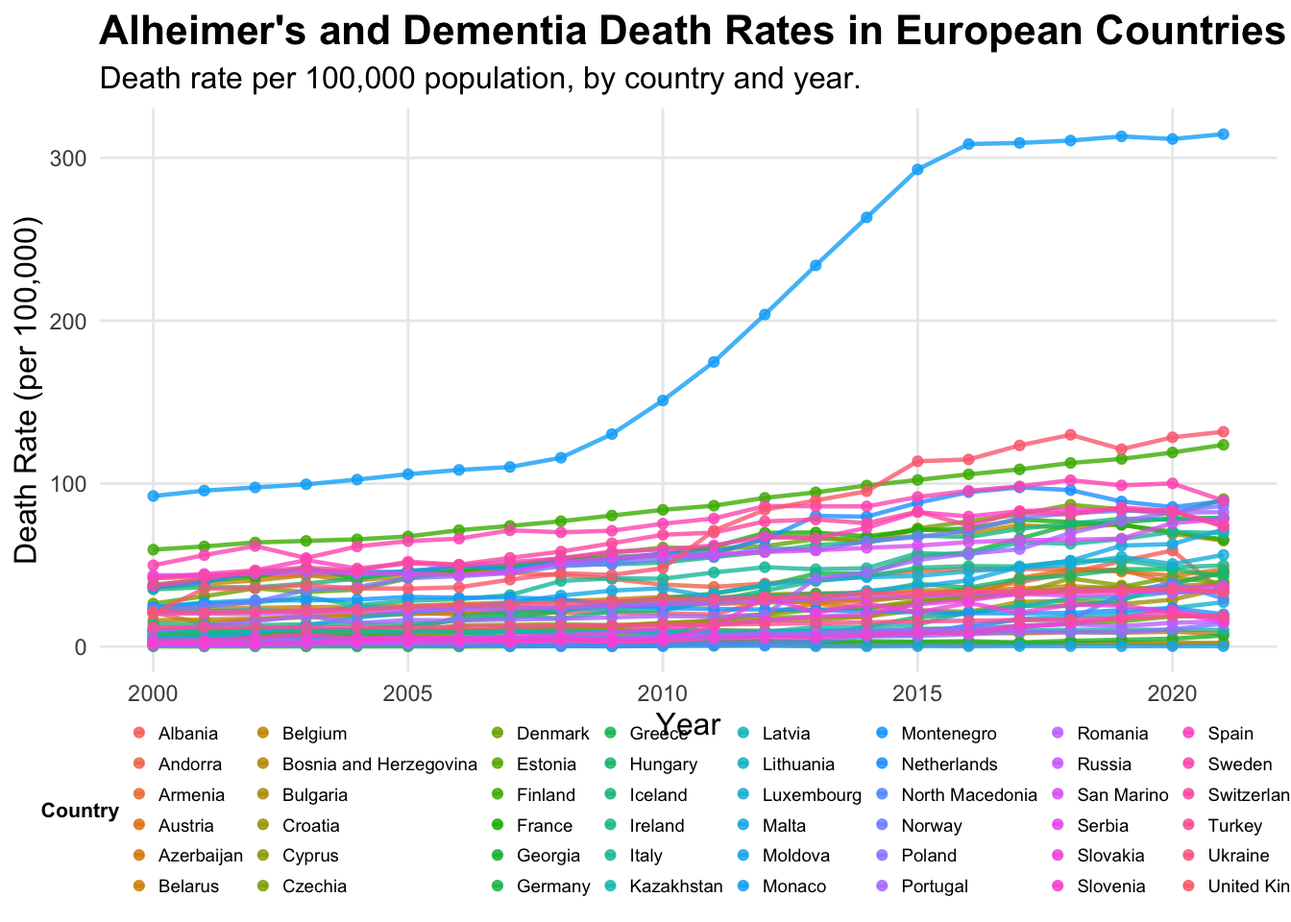
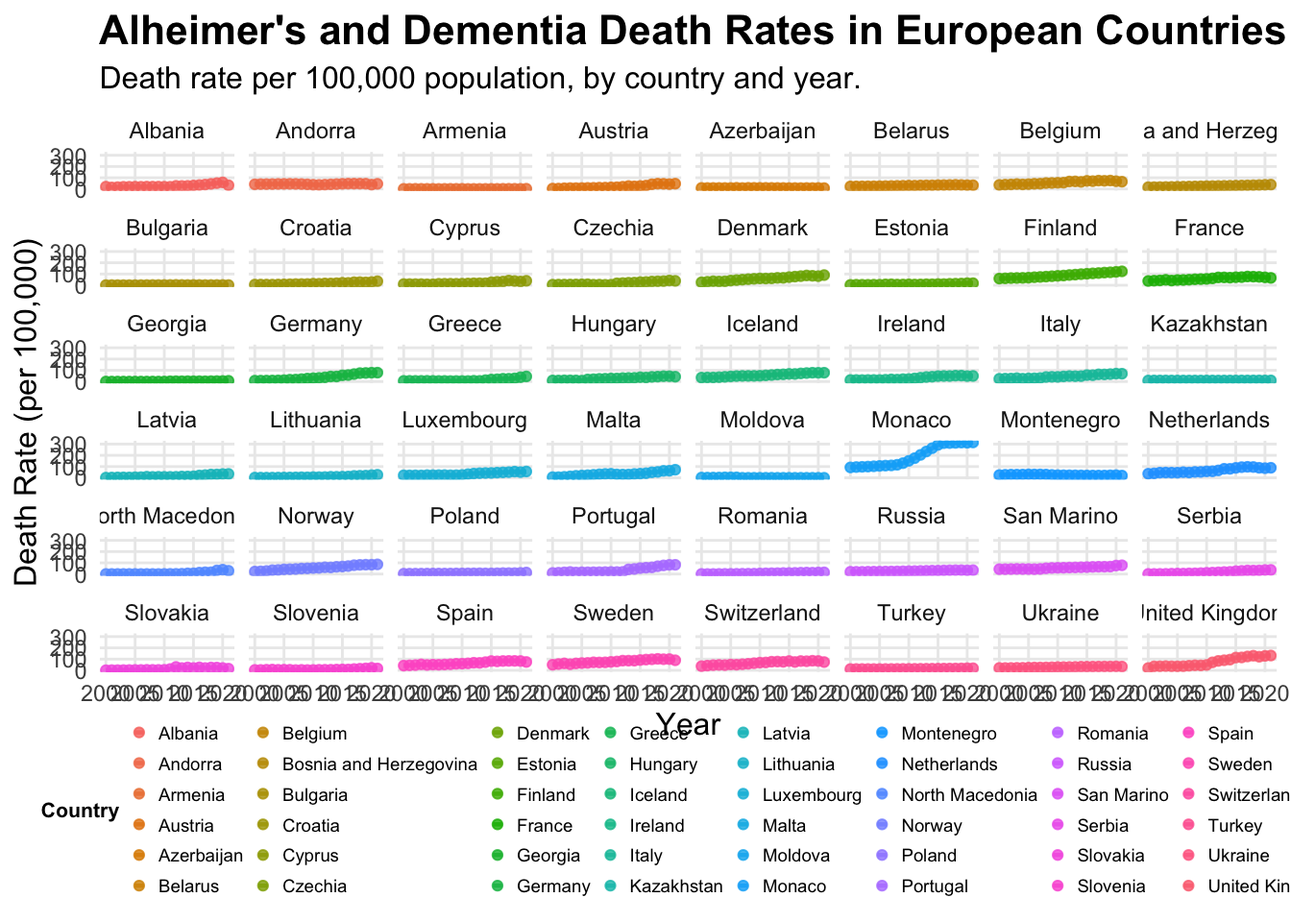
updating graphs commit

Changed region(s): [[0.0, 0.125, 1.0, 0.7812]]

diff --git a/FinalProject.html b/FinalProject.html
@@ -98,8 +98,8 @@ pre > code.sourceCode > span > a:first-child::before { text-decoration: underlin
 </header>
 
 
-<section id="death-rates-from-alzheimers-disease-and-other-forms-of-dementias-across-europe-from-2000-2021." class="level1">
-<h1>Death rates from Alzheimer’s disease and other forms of dementia’s across Europe from 2000-2021.</h1>
+<section id="death-rates-from-alzheimers-disease-and-other-forms-of-dementia-across-europe-from-2000-2021." class="level1">
+<h1>Death rates from Alzheimer’s disease and other forms of dementia across Europe from 2000-2021.</h1>
 <section id="sophie-ryan" class="level4">
 <h4 class="anchored" data-anchor-id="sophie-ryan">Sophie Ryan</h4>
 <section id="section" class="level5">
@@ -108,18 +108,22 @@ pre > code.sourceCode > span > a:first-child::before { text-decoration: underlin
 </section>
 <section id="background-and-data-origins" class="level2">
 <h2 class="anchored" data-anchor-id="background-and-data-origins">Background and Data Origins</h2>
-<p>As a postgraduate Masters student studying cognitive neuroscience and human neuroimaging I am interested in the impact of neurodegenerative diseases on health and populations. This inspired me to create a visualisation looking at how deaths from alzeimers disease and other forms of dementia are increasing or decreasing and how this specifically is impacting health and therefore death rates. The raw data set was obtained from Our World Data website which provided the annual number of deaths from Alzeimer’s disease and other forms of dementia per 100,000 people from 2000 to 2021 globally, combining men and women.</p>
+<p>As a postgraduate Masters student studying cognitive neuroscience and human neuroimaging I am interested in the impact of neurodegenerative diseases on health and populations. This inspired me to create a visualisation looking at how deaths from alzheimer’s disease and other forms of dementia are increasing or decreasing and how this specifically is impacting health and therefore death rates. The raw data set was obtained from Our World Data website which provided the annual number of deaths from Alzheimer’s disease and other forms of dementia per 100,000 people from 2000 to 2021 globally, combining men and women.</p>
 <p>A link to the data set can be accessed <a href="https://ourworldindata.org/grapher/death-rate-from-alzheimers-other-dementias-ghe?tab=table">Here</a></p>
 <p>My visualisation will focus on answering whether there has been an increase in deaths from Alzheimer’s disease and other dementia’s across Europe from the year 2000-2021 and whether one specific country has a higher death rate than others due these neurodegenerative diseases.</p>
 <blockquote class="blockquote">
-<p><strong>Research Question:</strong> <em>“How have death rates from Alzeimer’s disease and other forms of dementia’s changed over time and how has this differed across countries in Europe?”</em></p>
+<p><strong>Research Question:</strong> <em>“How have death rates from Alzheimer’s disease and other forms of dementia’s changed over time and how has this differed across countries in Europe?”</em></p>
 </blockquote>
 </section>
 <section id="the-project" class="level2">
 <h2 class="anchored" data-anchor-id="the-project">The Project</h2>
 <section id="data-preparation" class="level4">
 <h4 class="anchored" data-anchor-id="data-preparation">Data Preparation:</h4>
-<p>Before starting any data preparation the packages needing to be installed and loaded are <code>tidyverse</code> and <code>here</code></p>
+<p>Before starting any data preparation the packages needing to be installed and loaded are:</p>
+<p><code>tidyverse</code></p>
+<p><code>here</code></p>
+<p><code>dplyr</code></p>
+<p><code>ggplot2</code></p>
 <p>Loading in the raw data set before I can begin cleaning and organising.</p>
 <div class="cell">
 <div class="sourceCode cell-code" id="cb1"><pre class="sourceCode r code-with-copy"><code class="sourceCode r"><span id="cb1-1"><a href="#cb1-1" aria-hidden="true" tabindex="-1"></a><span class="co">#Loading raw data into R</span></span>
@@ -132,9 +136,9 @@ pre > code.sourceCode > span > a:first-child::before { text-decoration: underlin
 </section>
 <section id="data-cleaning" class="level4">
 <h4 class="anchored" data-anchor-id="data-cleaning">Data Cleaning</h4>
-<p>The current raw data includes death rates from Alzheimers and other dementia’s across every country in the world. I want to focus just on countries in Europe. Therefore I am going to remove the rows that are irrelevant to my analysis and save a new data set with just the death rates from Alzheimer’s and other dementia’s across Europe from 2000-2021.</p>
+<p>The current raw data includes death rates from Alzheimer’s and other dementia’s across every country in the world. I want to focus just on countries in Europe. Therefore I am going to remove the rows that are irrelevant to my analysis and save a new data set with just the death rates from Alzheimer’s and other dementia’s across Europe from 2000-2021.</p>
 <div class="cell">
-<div class="sourceCode cell-code" id="cb2"><pre class="sourceCode r code-with-copy"><code class="sourceCode r"><span id="cb2-1"><a href="#cb2-1" aria-hidden="true" tabindex="-1"></a><span class="co">#1. Define a vector of European countries to give me something to reduce my raw data based upon </span></span>
+<div class="sourceCode cell-code" id="cb2"><pre class="sourceCode r code-with-copy"><code class="sourceCode r"><span id="cb2-1"><a href="#cb2-1" aria-hidden="true" tabindex="-1"></a><span class="co">#1. Define a vector of European countries to give me something to reduce my raw data based upon, this was quite tedious but i couldnt find a better way of doing this with such a large data set</span></span>
 <span id="cb2-2"><a href="#cb2-2" aria-hidden="true" tabindex="-1"></a></span>
 <span id="cb2-3"><a href="#cb2-3" aria-hidden="true" tabindex="-1"></a>european_countries<span class="ot">&lt;-</span> <span class="fu">c</span>(</span>
 <span id="cb2-4"><a href="#cb2-4" aria-hidden="true" tabindex="-1"></a>  <span class="st">"Albania"</span>, <span class="st">"Andorra"</span>, <span class="st">"Armenia"</span>, <span class="st">"Austria"</span>, <span class="st">"Azerbaijan"</span>, </span>
@@ -147,13 +151,13 @@ pre > code.sourceCode > span > a:first-child::before { text-decoration: underlin
 <span id="cb2-11"><a href="#cb2-11" aria-hidden="true" tabindex="-1"></a></span>
 <span id="cb2-12"><a href="#cb2-12" aria-hidden="true" tabindex="-1"></a></span>
 <span id="cb2-13"><a href="#cb2-13" aria-hidden="true" tabindex="-1"></a><span class="co">#2. Filter the data frame </span></span>
-<span id="cb2-14"><a href="#cb2-14" aria-hidden="true" tabindex="-1"></a><span class="co">#Use the command filter to keep all rows where the value in the "Entity" column is also present in the 'european_countries' vector that was created</span></span>
+<span id="cb2-14"><a href="#cb2-14" aria-hidden="true" tabindex="-1"></a><span class="co">#Use the function 'filter' to keep all rows where the value in the "Entity" column is also present in the 'european_countries' vector that was created</span></span>
 <span id="cb2-15"><a href="#cb2-15" aria-hidden="true" tabindex="-1"></a></span>
 <span id="cb2-16"><a href="#cb2-16" aria-hidden="true" tabindex="-1"></a>europe_alzheimers_df<span class="ot">&lt;-</span>df <span class="sc">%&gt;%</span></span>
 <span id="cb2-17"><a href="#cb2-17" aria-hidden="true" tabindex="-1"></a>  <span class="fu">filter</span>(Entity <span class="sc">%in%</span> european_countries)</span>
 <span id="cb2-18"><a href="#cb2-18" aria-hidden="true" tabindex="-1"></a></span>
 <span id="cb2-19"><a href="#cb2-19" aria-hidden="true" tabindex="-1"></a></span>
-<span id="cb2-20"><a href="#cb2-20" aria-hidden="true" tabindex="-1"></a><span class="co">#3. Displaying first few rows of the new data frame </span></span>
+<span id="cb2-20"><a href="#cb2-20" aria-hidden="true" tabindex="-1"></a><span class="co">#3. Displaying first few rows of the new data frame to check it has removed the relevant data </span></span>
 <span id="cb2-21"><a href="#cb2-21" aria-hidden="true" tabindex="-1"></a></span>
 <span id="cb2-22"><a href="#cb2-22" aria-hidden="true" tabindex="-1"></a><span class="fu">print</span>(<span class="fu">head</span>(europe_alzheimers_df))</span></code><button title="Copy to Clipboard" class="code-copy-button"><i class="bi"></i></button></pre></div>
 <div class="cell-output cell-output-stdout">
@@ -172,7 +176,7 @@ pre > code.sourceCode > span > a:first-child::before { text-decoration: underlin
 5                                                                  19.53
 6                                                                  20.77</code></pre>
 </div>
-<div class="sourceCode cell-code" id="cb4"><pre class="sourceCode r code-with-copy"><code class="sourceCode r"><span id="cb4-1"><a href="#cb4-1" aria-hidden="true" tabindex="-1"></a><span class="co">#4. Counting the number of rows in the original date frame and the new data frame to check that the intended rows were removed </span></span>
+<div class="sourceCode cell-code" id="cb4"><pre class="sourceCode r code-with-copy"><code class="sourceCode r"><span id="cb4-1"><a href="#cb4-1" aria-hidden="true" tabindex="-1"></a><span class="co">#4. Counting the number of rows in the original data frame and the new data frame to check that the intended rows were removed </span></span>
 <span id="cb4-2"><a href="#cb4-2" aria-hidden="true" tabindex="-1"></a></span>
 <span id="cb4-3"><a href="#cb4-3" aria-hidden="true" tabindex="-1"></a><span class="fu">print</span>(<span class="fu">paste</span>(<span class="st">"Original rows:"</span>, <span class="fu">nrow</span>(df)))</span></code><button title="Copy to Clipboard" class="code-copy-button"><i class="bi"></i></button></pre></div>
 <div class="cell-output cell-output-stdout">
@@ -183,37 +187,47 @@ pre > code.sourceCode > span > a:first-child::before { text-decoration: underlin
 <pre><code>[1] "European rows: 1056"</code></pre>
 </div>
 <div class="sourceCode cell-code" id="cb8"><pre class="sourceCode r code-with-copy"><code class="sourceCode r"><span id="cb8-1"><a href="#cb8-1" aria-hidden="true" tabindex="-1"></a><span class="co">#5. Saving the new data set with just European countries in it </span></span>
-<span id="cb8-2"><a href="#cb8-2" aria-hidden="true" tabindex="-1"></a><span class="fu">write.csv</span>(europe_alzheimers_df, <span class="st">"european_alzeimers_deaths.csv"</span>, <span class="at">row.names =</span> <span class="cn">FALSE</span>)</span>
-<span id="cb8-3"><a href="#cb8-3" aria-hidden="true" tabindex="-1"></a></span>
+<span id="cb8-2"><a href="#cb8-2" aria-hidden="true" tabindex="-1"></a></span>
+<span id="cb8-3"><a href="#cb8-3" aria-hidden="true" tabindex="-1"></a><span class="fu">write.csv</span>(europe_alzheimers_df, <span class="st">"european_alzeimers_deaths.csv"</span>, <span class="at">row.names =</span> <span class="cn">FALSE</span>)</span>
 <span id="cb8-4"><a href="#cb8-4" aria-hidden="true" tabindex="-1"></a></span>
-<span id="cb8-5"><a href="#cb8-5" aria-hidden="true" tabindex="-1"></a><span class="co">#6 Viewing the new clean data set </span></span>
-<span id="cb8-6"><a href="#cb8-6" aria-hidden="true" tabindex="-1"></a><span class="fu">view</span>(europe_alzheimers_df)</span>
+<span id="cb8-5"><a href="#cb8-5" aria-hidden="true" tabindex="-1"></a></span>
+<span id="cb8-6"><a href="#cb8-6" aria-hidden="true" tabindex="-1"></a><span class="co">#6 Viewing the new clean data set in a table format</span></span>
 <span id="cb8-7"><a href="#cb8-7" aria-hidden="true" tabindex="-1"></a></span>
-<span id="cb8-8"><a href="#cb8-8" aria-hidden="true" tabindex="-1"></a><span class="co">#7 Renaming columns </span></span>
-<span id="cb8-9"><a href="#cb8-9" aria-hidden="true" tabindex="-1"></a>europe_alzheimers_deaths<span class="ot">&lt;-</span> europe_alzheimers_df <span class="sc">%&gt;%</span></span>
-<span id="cb8-10"><a href="#cb8-10" aria-hidden="true" tabindex="-1"></a>  <span class="fu">rename</span>(<span class="at">Country =</span> Entity,</span>
-<span id="cb8-11"><a href="#cb8-11" aria-hidden="true" tabindex="-1"></a>         <span class="at">DeathRate =</span> Death.rate.from.alzheimer.disease.and.other.dementias.among.both.sexes)</span>
-<span id="cb8-12"><a href="#cb8-12" aria-hidden="true" tabindex="-1"></a></span>
-<span id="cb8-13"><a href="#cb8-13" aria-hidden="true" tabindex="-1"></a><span class="co">#8 Viewing final clean data set </span></span>
-<span id="cb8-14"><a href="#cb8-14" aria-hidden="true" tabindex="-1"></a><span class="fu">view</span>(europe_alzheimers_deaths)</span></code><button title="Copy to Clipboard" class="code-copy-button"><i class="bi"></i></button></pre></div>
+<span id="cb8-8"><a href="#cb8-8" aria-hidden="true" tabindex="-1"></a><span class="fu">view</span>(europe_alzheimers_df)</span>
+<span id="cb8-9"><a href="#cb8-9" aria-hidden="true" tabindex="-1"></a></span>
+<span id="cb8-10"><a href="#cb8-10" aria-hidden="true" tabindex="-1"></a><span class="co">#7 Renaming columns </span></span>
+<span id="cb8-11"><a href="#cb8-11" aria-hidden="true" tabindex="-1"></a></span>
+<span id="cb8-12"><a href="#cb8-12" aria-hidden="true" tabindex="-1"></a>europe_alzheimers_deaths<span class="ot">&lt;-</span> europe_alzheimers_df <span class="sc">%&gt;%</span> <span class="co">#creating final data set</span></span>
+<span id="cb8-13"><a href="#cb8-13" aria-hidden="true" tabindex="-1"></a>  </span>
+<span id="cb8-14"><a href="#cb8-14" aria-hidden="true" tabindex="-1"></a>  <span class="fu">rename</span>(<span class="at">Country =</span> Entity, <span class="co">#renaming the original column name as 'Country'</span></span>
+<span id="cb8-15"><a href="#cb8-15" aria-hidden="true" tabindex="-1"></a>         </span>
+<span id="cb8-16"><a href="#cb8-16" aria-hidden="true" tabindex="-1"></a>         <span class="at">DeathRate =</span> Death.rate.from.alzheimer.disease.and.other.dementias.among.both.sexes)</span>
+<span id="cb8-17"><a href="#cb8-17" aria-hidden="true" tabindex="-1"></a></span>
+<span id="cb8-18"><a href="#cb8-18" aria-hidden="true" tabindex="-1"></a></span>
+<span id="cb8-19"><a href="#cb8-19" aria-hidden="true" tabindex="-1"></a><span class="co">#8 Viewing final clean data set </span></span>
+<span id="cb8-20"><a href="#cb8-20" aria-hidden="true" tabindex="-1"></a></span>
+<span id="cb8-21"><a href="#cb8-21" aria-hidden="true" tabindex="-1"></a><span class="fu">view</span>(europe_alzheimers_deaths)</span></code><button title="Copy to Clipboard" class="code-copy-button"><i class="bi"></i></button></pre></div>
 </div>
 </section>
 <section id="data-visualisation-1" class="level4">
 <h4 class="anchored" data-anchor-id="data-visualisation-1">Data visualisation 1</h4>
 <div class="cell">
-<div class="sourceCode cell-code" id="cb9"><pre class="sourceCode r code-with-copy"><code class="sourceCode r"><span id="cb9-1"><a href="#cb9-1" aria-hidden="true" tabindex="-1"></a><span class="co">#Creating simple line graph </span></span>
-<span id="cb9-2"><a href="#cb9-2" aria-hidden="true" tabindex="-1"></a><span class="fu">ggplot</span>(europe_alzheimers_deaths, <span class="fu">aes</span>(<span class="at">x =</span> Year, <span class="at">y =</span> DeathRate, <span class="at">colour =</span> Country, <span class="at">group =</span> Country)) <span class="sc">+</span> </span>
-<span id="cb9-3"><a href="#cb9-3" aria-hidden="true" tabindex="-1"></a>  <span class="co">#Adding x and y axis and grouping data points by country</span></span>
-<span id="cb9-4"><a href="#cb9-4" aria-hidden="true" tabindex="-1"></a> </span>
-<span id="cb9-5"><a href="#cb9-5" aria-hidden="true" tabindex="-1"></a>   <span class="fu">geom_line</span>() <span class="sc">+</span> <span class="co">#adding the line</span></span>
-<span id="cb9-6"><a href="#cb9-6" aria-hidden="true" tabindex="-1"></a> </span>
-<span id="cb9-7"><a href="#cb9-7" aria-hidden="true" tabindex="-1"></a>   <span class="fu">labs</span> (<span class="at">title =</span> <span class="st">"Alzeimers deaths by European country from 2000-2021"</span>,</span>
-<span id="cb9-8"><a href="#cb9-8" aria-hidden="true" tabindex="-1"></a>  <span class="at">x =</span> <span class="st">"Year"</span>,</span>
-<span id="cb9-9"><a href="#cb9-9" aria-hidden="true" tabindex="-1"></a>  <span class="at">y =</span> <span class="st">"Number of Deaths"</span>,</span>
-<span id="cb9-10"><a href="#cb9-10" aria-hidden="true" tabindex="-1"></a>  <span class="at">colour =</span> <span class="st">"Country"</span>) <span class="sc">+</span></span>
-<span id="cb9-11"><a href="#cb9-11" aria-hidden="true" tabindex="-1"></a>  <span class="co">#adding title and labels for axis and assigning a different colour for each country </span></span>
-<span id="cb9-12"><a href="#cb9-12" aria-hidden="true" tabindex="-1"></a> </span>
-<span id="cb9-13"><a href="#cb9-13" aria-hidden="true" tabindex="-1"></a>   <span class="fu">theme_minimal</span>()</span></code><button title="Copy to Clipboard" class="code-copy-button"><i class="bi"></i></button></pre></div>
+<div class="sourceCode cell-code" id="cb9"><pre class="sourceCode r code-with-copy"><code class="sourceCode r"><span id="cb9-1"><a href="#cb9-1" aria-hidden="true" tabindex="-1"></a><span class="co">#Creating a simple line graph to see how my data might be visualised</span></span>
+<span id="cb9-2"><a href="#cb9-2" aria-hidden="true" tabindex="-1"></a></span>
+<span id="cb9-3"><a href="#cb9-3" aria-hidden="true" tabindex="-1"></a><span class="fu">ggplot</span>( </span>
+<span id="cb9-4"><a href="#cb9-4" aria-hidden="true" tabindex="-1"></a>  europe_alzheimers_deaths, </span>
+<span id="cb9-5"><a href="#cb9-5" aria-hidden="true" tabindex="-1"></a>  <span class="fu">aes</span>(<span class="at">x =</span> Year, <span class="at">y =</span> DeathRate, <span class="at">colour =</span> Country, <span class="at">group =</span> Country)) <span class="sc">+</span> </span>
+<span id="cb9-6"><a href="#cb9-6" aria-hidden="true" tabindex="-1"></a>  <span class="co">#Adding x and y axis and grouping data points by country</span></span>
+<span id="cb9-7"><a href="#cb9-7" aria-hidden="true" tabindex="-1"></a> </span>
+<span id="cb9-8"><a href="#cb9-8" aria-hidden="true" tabindex="-1"></a>   <span class="fu">geom_line</span>() <span class="sc">+</span> <span class="co">#adding the line</span></span>
+<span id="cb9-9"><a href="#cb9-9" aria-hidden="true" tabindex="-1"></a> </span>
+<span id="cb9-10"><a href="#cb9-10" aria-hidden="true" tabindex="-1"></a>   <span class="fu">labs</span> (<span class="at">title =</span> <span class="st">"Alzeimers deaths by European country from 2000-2021"</span>,</span>
+<span id="cb9-11"><a href="#cb9-11" aria-hidden="true" tabindex="-1"></a>  <span class="at">x =</span> <span class="st">"Year"</span>,</span>
+<span id="cb9-12"><a href="#cb9-12" aria-hidden="true" tabindex="-1"></a>  <span class="at">y =</span> <span class="st">"Number of Deaths"</span>,</span>
+<span id="cb9-13"><a href="#cb9-13" aria-hidden="true" tabindex="-1"></a>  <span class="at">colour =</span> <span class="st">"Country"</span>) <span class="sc">+</span></span>
+<span id="cb9-14"><a href="#cb9-14" aria-hidden="true" tabindex="-1"></a>  <span class="co">#adding title and labels for x and y axis and assigning a different colour for each country </span></span>
+<span id="cb9-15"><a href="#cb9-15" aria-hidden="true" tabindex="-1"></a> </span>
+<span id="cb9-16"><a href="#cb9-16" aria-hidden="true" tabindex="-1"></a>   <span class="fu">theme_minimal</span>()</span></code><button title="Copy to Clipboard" class="code-copy-button"><i class="bi"></i></button></pre></div>
 <div class="cell-output-display">
 <div>
 <figure class="figure">
@@ -222,43 +236,50 @@ pre > code.sourceCode > span > a:first-child::before { text-decoration: underlin
 </div>
 </div>
 </div>
-<p>This was just a basic line graph for me to get an idea on how i can work with the data i have and what sort of graph i could create. This one is very simple and i don’t like the proportions and it does not look that great so i am going to try and advance this visualisation into something clearer and more precise.</p>
+<p>This was just a basic line graph for me to get an idea on how i can work with the data i have and what sort of graph i could create. This one is very simple and i don’t like the proportions and it does not look that great in terms of positioning, colour and just general visability so i am going to try and advance this visualisation into something clearer and more precise.</p>
 <div class="cell">
-<div class="sourceCode cell-code" id="cb10"><pre class="sourceCode r code-with-copy"><code class="sourceCode r"><span id="cb10-1"><a href="#cb10-1" aria-hidden="true" tabindex="-1"></a>alzheimer_plot<span class="ot">&lt;-</span> <span class="fu">ggplot</span>(</span>
-<span id="cb10-2"><a href="#cb10-2" aria-hidden="true" tabindex="-1"></a>  <span class="at">data =</span> europe_alzheimers_deaths,</span>
-<span id="cb10-3"><a href="#cb10-3" aria-hidden="true" tabindex="-1"></a>  <span class="fu">aes</span>(</span>
-<span id="cb10-4"><a href="#cb10-4" aria-hidden="true" tabindex="-1"></a>    <span class="at">x =</span> Year,</span>
-<span id="cb10-5"><a href="#cb10-5" aria-hidden="true" tabindex="-1"></a>    <span class="at">y =</span> DeathRate,</span>
-<span id="cb10-6"><a href="#cb10-6" aria-hidden="true" tabindex="-1"></a>    <span class="at">group =</span> Country,</span>
-<span id="cb10-7"><a href="#cb10-7" aria-hidden="true" tabindex="-1"></a>    <span class="at">colour =</span> Country </span>
-<span id="cb10-8"><a href="#cb10-8" aria-hidden="true" tabindex="-1"></a>  )</span>
-<span id="cb10-9"><a href="#cb10-9" aria-hidden="true" tabindex="-1"></a>) <span class="sc">+</span></span>
-<span id="cb10-10"><a href="#cb10-10" aria-hidden="true" tabindex="-1"></a>  <span class="fu">geom_line</span>(</span>
-<span id="cb10-11"><a href="#cb10-11" aria-hidden="true" tabindex="-1"></a>    <span class="at">linewidth =</span> <span class="fl">0.8</span>,</span>
-<span id="cb10-12"><a href="#cb10-12" aria-hidden="true" tabindex="-1"></a>    <span class="at">alpha =</span> <span class="fl">0.8</span> </span>
-<span id="cb10-13"><a href="#cb10-13" aria-hidden="true" tabindex="-1"></a>  ) <span class="sc">+</span></span>
-<span id="cb10-14"><a href="#cb10-14" aria-hidden="true" tabindex="-1"></a>  <span class="fu">geom_point</span>(</span>
-<span id="cb10-15"><a href="#cb10-15" aria-hidden="true" tabindex="-1"></a>    <span class="at">size =</span> <span class="fl">1.5</span>,</span>
-<span id="cb10-16"><a href="#cb10-16" aria-hidden="true" tabindex="-1"></a>    <span class="at">alpha =</span> <span class="fl">0.8</span></span>
-<span id="cb10-17"><a href="#cb10-17" aria-hidden="true" tabindex="-1"></a>  ) <span class="sc">+</span></span>
-<span id="cb10-18"><a href="#cb10-18" aria-hidden="true" tabindex="-1"></a>  <span class="fu">labs</span>(</span>
-<span id="cb10-19"><a href="#cb10-19" aria-hidden="true" tabindex="-1"></a>    <span class="at">title =</span> <span class="st">"Alheimer's and Dementia Death Rates in European Countries Over Time"</span>,</span>
-<span id="cb10-20"><a href="#cb10-20" aria-hidden="true" tabindex="-1"></a>    <span class="at">subtitle =</span> <span class="st">"Death rate per 100,000 population, by country and year."</span>,</span>
-<span id="cb10-21"><a href="#cb10-21" aria-hidden="true" tabindex="-1"></a>    <span class="at">x =</span> <span class="st">"Year"</span>,</span>
-<span id="cb10-22"><a href="#cb10-22" aria-hidden="true" tabindex="-1"></a>    <span class="at">y =</span> <span class="st">"Death Rate (per 100,000)"</span>,</span>
-<span id="cb10-23"><a href="#cb10-23" aria-hidden="true" tabindex="-1"></a>    <span class="at">colour =</span> <span class="st">"Country"</span></span>
-<span id="cb10-24"><a href="#cb10-24" aria-hidden="true" tabindex="-1"></a>  ) <span class="sc">+</span></span>
-<span id="cb10-25"><a href="#cb10-25" aria-hidden="true" tabindex="-1"></a>  <span class="fu">theme_minimal</span>() <span class="sc">+</span></span>
-<span id="cb10-26"><a href="#cb10-26" aria-hidden="true" tabindex="-1"></a>  <span class="fu">theme</span>(</span>
-<span id="cb10-27"><a href="#cb10-27" aria-hidden="true" tabindex="-1"></a>    <span class="at">plot.title =</span> <span class="fu">element_text</span>(<span class="at">size =</span> <span class="dv">16</span>, <span class="at">face =</span> <span class="st">"bold"</span>),</span>
-<span id="cb10-28"><a href="#cb10-28" aria-hidden="true" tabindex="-1"></a>    <span class="at">plot.subtitle =</span> <span class="fu">element_text</span>(<span class="at">size =</span> <span class="dv">12</span>),</span>
-<span id="cb10-29"><a href="#cb10-29" aria-hidden="true" tabindex="-1"></a>    <span class="at">axis.title =</span> <span class="fu">element_text</span>(<span class="at">size =</span> <span class="dv">12</span>),</span>
-<span id="cb10-30"><a href="#cb10-30" aria-hidden="true" tabindex="-1"></a>    <span class="at">legend.position =</span> <span class="st">"right"</span>,</span>
-<span id="cb10-31"><a href="#cb10-31" aria-hidden="true" tabindex="-1"></a>    <span class="at">panel.grid.minor =</span> <span class="fu">element_blank</span>()</span>
-<span id="cb10-32"><a href="#cb10-32" aria-hidden="true" tabindex="-1"></a>  ) </span>
-<span id="cb10-33"><a href="#cb10-33" aria-hidden="true" tabindex="-1"></a></span>
-<span id="cb10-34"><a href="#cb10-34" aria-hidden="true" tabindex="-1"></a></span>
-<span id="cb10-35"><a href="#cb10-35" aria-hidden="true" tabindex="-1"></a><span class="fu">print</span>(alzheimer_plot)</span></code><button title="Copy to Clipboard" class="code-copy-button"><i class="bi"></i></button></pre></div>
+<div class="sourceCode cell-code" id="cb10"><pre class="sourceCode r code-with-copy"><code class="sourceCode r"><span id="cb10-1"><a href="#cb10-1" aria-hidden="true" tabindex="-1"></a>alzheimer_plot<span class="ot">&lt;-</span> <span class="fu">ggplot</span>( <span class="co">#assigning the plot a name</span></span>
+<span id="cb10-2"><a href="#cb10-2" aria-hidden="true" tabindex="-1"></a>  </span>
+<span id="cb10-3"><a href="#cb10-3" aria-hidden="true" tabindex="-1"></a>  <span class="at">data =</span> europe_alzheimers_deaths, <span class="co">#calling the data</span></span>
+<span id="cb10-4"><a href="#cb10-4" aria-hidden="true" tabindex="-1"></a> </span>
+<span id="cb10-5"><a href="#cb10-5" aria-hidden="true" tabindex="-1"></a>   <span class="fu">aes</span>(</span>
+<span id="cb10-6"><a href="#cb10-6" aria-hidden="true" tabindex="-1"></a>    <span class="at">x =</span> Year,</span>
+<span id="cb10-7"><a href="#cb10-7" aria-hidden="true" tabindex="-1"></a>    <span class="at">y =</span> DeathRate,</span>
+<span id="cb10-8"><a href="#cb10-8" aria-hidden="true" tabindex="-1"></a>    <span class="at">group =</span> Country,</span>
+<span id="cb10-9"><a href="#cb10-9" aria-hidden="true" tabindex="-1"></a>    <span class="at">colour =</span> Country </span>
+<span id="cb10-10"><a href="#cb10-10" aria-hidden="true" tabindex="-1"></a>  ) <span class="co">#adding x and y axis and grouping values by country and assigning a default colour palette giving a different colour for each country</span></span>
+<span id="cb10-11"><a href="#cb10-11" aria-hidden="true" tabindex="-1"></a>) <span class="sc">+</span></span>
+<span id="cb10-12"><a href="#cb10-12" aria-hidden="true" tabindex="-1"></a>  </span>
+<span id="cb10-13"><a href="#cb10-13" aria-hidden="true" tabindex="-1"></a>  <span class="fu">geom_line</span>(</span>
+<span id="cb10-14"><a href="#cb10-14" aria-hidden="true" tabindex="-1"></a>    <span class="at">linewidth =</span> <span class="fl">0.8</span>, <span class="co">#setting thickness of lines</span></span>
+<span id="cb10-15"><a href="#cb10-15" aria-hidden="true" tabindex="-1"></a>    <span class="at">alpha =</span> <span class="fl">0.8</span> <span class="co">#controlling transparency of the lines </span></span>
+<span id="cb10-16"><a href="#cb10-16" aria-hidden="true" tabindex="-1"></a>  ) <span class="sc">+</span></span>
+<span id="cb10-17"><a href="#cb10-17" aria-hidden="true" tabindex="-1"></a>  </span>
+<span id="cb10-18"><a href="#cb10-18" aria-hidden="true" tabindex="-1"></a>  <span class="fu">geom_point</span>( <span class="co">#adds data points across the lines</span></span>
+<span id="cb10-19"><a href="#cb10-19" aria-hidden="true" tabindex="-1"></a>    <span class="at">size =</span> <span class="fl">1.5</span>,</span>
+<span id="cb10-20"><a href="#cb10-20" aria-hidden="true" tabindex="-1"></a>    <span class="at">alpha =</span> <span class="fl">0.8</span></span>
+<span id="cb10-21"><a href="#cb10-21" aria-hidden="true" tabindex="-1"></a>  ) <span class="sc">+</span></span>
+<span id="cb10-22"><a href="#cb10-22" aria-hidden="true" tabindex="-1"></a>  </span>
+<span id="cb10-23"><a href="#cb10-23" aria-hidden="true" tabindex="-1"></a>  <span class="fu">labs</span>(</span>
+<span id="cb10-24"><a href="#cb10-24" aria-hidden="true" tabindex="-1"></a>    <span class="at">title =</span> <span class="st">"Alheimer's and Dementia Death Rates in European Countries Over Time"</span>,</span>
+<span id="cb10-25"><a href="#cb10-25" aria-hidden="true" tabindex="-1"></a>    <span class="at">subtitle =</span> <span class="st">"Death rate per 100,000 population, by country and year."</span>,</span>
+<span id="cb10-26"><a href="#cb10-26" aria-hidden="true" tabindex="-1"></a>    <span class="at">x =</span> <span class="st">"Year"</span>,</span>
+<span id="cb10-27"><a href="#cb10-27" aria-hidden="true" tabindex="-1"></a>    <span class="at">y =</span> <span class="st">"Death Rate (per 100,000)"</span>,</span>
+<span id="cb10-28"><a href="#cb10-28" aria-hidden="true" tabindex="-1"></a>    <span class="at">colour =</span> <span class="st">"Country"</span></span>
+<span id="cb10-29"><a href="#cb10-29" aria-hidden="true" tabindex="-1"></a>  ) <span class="sc">+</span> <span class="co">#labelling the graph</span></span>
+<span id="cb10-30"><a href="#cb10-30" aria-hidden="true" tabindex="-1"></a>  </span>
+<span id="cb10-31"><a href="#cb10-31" aria-hidden="true" tabindex="-1"></a>  <span class="fu">theme_minimal</span>() <span class="sc">+</span></span>
+<span id="cb10-32"><a href="#cb10-32" aria-hidden="true" tabindex="-1"></a>  </span>
+<span id="cb10-33"><a href="#cb10-33" aria-hidden="true" tabindex="-1"></a>  <span class="fu">theme</span>(</span>
+<span id="cb10-34"><a href="#cb10-34" aria-hidden="true" tabindex="-1"></a>    <span class="at">plot.title =</span> <span class="fu">element_text</span>(<span class="at">size =</span> <span class="dv">16</span>, <span class="at">face =</span> <span class="st">"bold"</span>), <span class="co">#changing size of title and making it bold</span></span>
+<span id="cb10-35"><a href="#cb10-35" aria-hidden="true" tabindex="-1"></a>    <span class="at">plot.subtitle =</span> <span class="fu">element_text</span>(<span class="at">size =</span> <span class="dv">12</span>), <span class="co">#assinging text size to the subtitle </span></span>
+<span id="cb10-36"><a href="#cb10-36" aria-hidden="true" tabindex="-1"></a>    <span class="at">axis.title =</span> <span class="fu">element_text</span>(<span class="at">size =</span> <span class="dv">12</span>), <span class="co">#assigning text size for the axis label</span></span>
+<span id="cb10-37"><a href="#cb10-37" aria-hidden="true" tabindex="-1"></a>    <span class="at">legend.position =</span> <span class="st">"right"</span>, <span class="co">#making the position of the legend on the right of the graph</span></span>
+<span id="cb10-38"><a href="#cb10-38" aria-hidden="true" tabindex="-1"></a>    <span class="at">panel.grid.minor =</span> <span class="fu">element_blank</span>() <span class="co">#hiding minor grid lines</span></span>
+<span id="cb10-39"><a href="#cb10-39" aria-hidden="true" tabindex="-1"></a>  ) </span>
+<span id="cb10-40"><a href="#cb10-40" aria-hidden="true" tabindex="-1"></a></span>
+<span id="cb10-41"><a href="#cb10-41" aria-hidden="true" tabindex="-1"></a></span>
+<span id="cb10-42"><a href="#cb10-42" aria-hidden="true" tabindex="-1"></a><span class="fu">print</span>(alzheimer_plot) <span class="co">#showing the graph </span></span></code><button title="Copy to Clipboard" class="code-copy-button"><i class="bi"></i></button></pre></div>
 <div class="cell-output-display">
 <div>
 <figure class="figure">
@@ -267,17 +288,17 @@ pre > code.sourceCode > span > a:first-child::before { text-decoration: underlin
 </div>
 </div>
 </div>
-<p>This graph is better in terms of visual appearance and labels and includes much more detail, but the legend is too big and the graph is squished so its still unclear.</p>
+<p>This graph is better in terms of visual appearance and labels and includes much more detail, but the legend is too big and the graph is squished, the colours are too similar and theres just too much going on on the graph to read the data clearly, so its still unclear.</p>
 <div class="cell">
-<div class="sourceCode cell-code" id="cb11"><pre class="sourceCode r code-with-copy"><code class="sourceCode r"><span id="cb11-1"><a href="#cb11-1" aria-hidden="true" tabindex="-1"></a>alzheimer_plot<span class="ot">&lt;-</span> <span class="fu">ggplot</span>(</span>
-<span id="cb11-2"><a href="#cb11-2" aria-hidden="true" tabindex="-1"></a>  <span class="at">data =</span> europe_alzheimers_deaths,</span>
+<div class="sourceCode cell-code" id="cb11"><pre class="sourceCode r code-with-copy"><code class="sourceCode r"><span id="cb11-1"><a href="#cb11-1" aria-hidden="true" tabindex="-1"></a>alzheimer_plot<span class="ot">&lt;-</span> <span class="fu">ggplot</span>(<span class="at">data =</span> europe_alzheimers_deaths, <span class="co">#calling the data</span></span>
+<span id="cb11-2"><a href="#cb11-2" aria-hidden="true" tabindex="-1"></a>  </span>
 <span id="cb11-3"><a href="#cb11-3" aria-hidden="true" tabindex="-1"></a>  <span class="fu">aes</span>(</span>
 <span id="cb11-4"><a href="#cb11-4" aria-hidden="true" tabindex="-1"></a>    <span class="at">x =</span> Year,</span>
 <span id="cb11-5"><a href="#cb11-5" aria-hidden="true" tabindex="-1"></a>    <span class="at">y =</span> DeathRate,</span>
 <span id="cb11-6"><a href="#cb11-6" aria-hidden="true" tabindex="-1"></a>    <span class="at">group =</span> Country,</span>
-<span id="cb11-7"><a href="#cb11-7" aria-hidden="true" tabindex="-1"></a>    <span class="at">colour =</span> Country </span>
-<span id="cb11-8"><a href="#cb11-8" aria-hidden="true" tabindex="-1"></a>  )</span>
-<span id="cb11-9"><a href="#cb11-9" aria-hidden="true" tabindex="-1"></a>) <span class="sc">+</span></span>
+<span id="cb11-7"><a href="#cb11-7" aria-hidden="true" tabindex="-1"></a>    <span class="at">colour =</span> Country,</span>
+<span id="cb11-8"><a href="#cb11-8" aria-hidden="true" tabindex="-1"></a>    <span class="co">#adding x and y axis, grouping by country and making each country a different colour </span></span>
+<span id="cb11-9"><a href="#cb11-9" aria-hidden="true" tabindex="-1"></a>)) <span class="sc">+</span></span>
 <span id="cb11-10"><a href="#cb11-10" aria-hidden="true" tabindex="-1"></a>  <span class="fu">geom_line</span>(</span>
 <span id="cb11-11"><a href="#cb11-11" aria-hidden="true" tabindex="-1"></a>    <span class="at">linewidth =</span> <span class="fl">0.8</span>,</span>
 <span id="cb11-12"><a href="#cb11-12" aria-hidden="true" tabindex="-1"></a>    <span class="at">alpha =</span> <span class="fl">0.8</span> </span>
@@ -286,30 +307,31 @@ pre > code.sourceCode > span > a:first-child::before { text-decoration: underlin
 <span id="cb11-15"><a href="#cb11-15" aria-hidden="true" tabindex="-1"></a>    <span class="at">size =</span> <span class="fl">1.5</span>,</span>
 <span id="cb11-16"><a href="#cb11-16" aria-hidden="true" tabindex="-1"></a>    <span class="at">alpha =</span> <span class="fl">0.8</span></span>
 <span id="cb11-17"><a href="#cb11-17" aria-hidden="true" tabindex="-1"></a>  ) <span class="sc">+</span></span>
-<span id="cb11-18"><a href="#cb11-18" aria-hidden="true" tabindex="-1"></a>  <span class="fu">labs</span>(</span>
-<span id="cb11-19"><a href="#cb11-19" aria-hidden="true" tabindex="-1"></a>    <span class="at">title =</span> <span class="st">"Alheimer's and Dementia Death Rates in European Countries Over Time"</span>,</span>
-<span id="cb11-20"><a href="#cb11-20" aria-hidden="true" tabindex="-1"></a>    <span class="at">subtitle =</span> <span class="st">"Death rate per 100,000 population, by country and year."</span>,</span>
-<span id="cb11-21"><a href="#cb11-21" aria-hidden="true" tabindex="-1"></a>    <span class="at">x =</span> <span class="st">"Year"</span>,</span>
-<span id="cb11-22"><a href="#cb11-22" aria-hidden="true" tabindex="-1"></a>    <span class="at">y =</span> <span class="st">"Death Rate (per 100,000)"</span>,</span>
-<span id="cb11-23"><a href="#cb11-23" aria-hidden="true" tabindex="-1"></a>    <span class="at">colour =</span> <span class="st">"Country"</span></span>
-<span id="cb11-24"><a href="#cb11-24" aria-hidden="true" tabindex="-1"></a>  ) <span class="sc">+</span></span>
-<span id="cb11-25"><a href="#cb11-25" aria-hidden="true" tabindex="-1"></a>  <span class="fu">theme_minimal</span>() <span class="sc">+</span></span>
-<span id="cb11-26"><a href="#cb11-26" aria-hidden="true" tabindex="-1"></a>  <span class="fu">theme</span>(</span>
-<span id="cb11-27"><a href="#cb11-27" aria-hidden="true" tabindex="-1"></a>    <span class="at">legend.position =</span> <span class="st">"bottom"</span>,</span>
-<span id="cb11-28"><a href="#cb11-28" aria-hidden="true" tabindex="-1"></a>    <span class="at">legend.direction =</span> <span class="st">"horizontal"</span>,</span>
-<span id="cb11-29"><a href="#cb11-29" aria-hidden="true" tabindex="-1"></a>    <span class="at">legend.text =</span> <span class="fu">element_text</span>(<span class="at">size =</span> <span class="dv">7</span>),</span>
-<span id="cb11-30"><a href="#cb11-30" aria-hidden="true" tabindex="-1"></a>    <span class="at">legend.title =</span> <span class="fu">element_text</span>(<span class="at">size =</span> <span class="dv">8</span>, <span class="at">face =</span> <span class="st">"bold"</span>),</span>
-<span id="cb11-31"><a href="#cb11-31" aria-hidden="true" tabindex="-1"></a>    <span class="at">legend.key.size =</span> <span class="fu">unit</span>(<span class="fl">0.3</span>, <span class="st">"lines"</span>),</span>
-<span id="cb11-32"><a href="#cb11-32" aria-hidden="true" tabindex="-1"></a>    <span class="at">legend.box.margin =</span> <span class="fu">margin</span>(<span class="at">t =</span> <span class="sc">-</span><span class="dv">15</span>, <span class="at">r =</span> <span class="dv">0</span>, <span class="at">b =</span> <span class="dv">0</span>, <span class="at">l =</span> <span class="dv">0</span>),</span>
-<span id="cb11-33"><a href="#cb11-33" aria-hidden="true" tabindex="-1"></a>    <span class="at">legend.box.spacing =</span> <span class="fu">unit</span>(<span class="fl">0.1</span>, <span class="st">"cm"</span>),</span>
-<span id="cb11-34"><a href="#cb11-34" aria-hidden="true" tabindex="-1"></a>    <span class="at">plot.title =</span> <span class="fu">element_text</span>(<span class="at">size =</span> <span class="dv">16</span>, <span class="at">face =</span> <span class="st">"bold"</span>),</span>
-<span id="cb11-35"><a href="#cb11-35" aria-hidden="true" tabindex="-1"></a>    <span class="at">plot.subtitle =</span> <span class="fu">element_text</span>(<span class="at">size =</span> <span class="dv">12</span>),</span>
-<span id="cb11-36"><a href="#cb11-36" aria-hidden="true" tabindex="-1"></a>    <span class="at">axis.title =</span> <span class="fu">element_text</span>(<span class="at">size =</span> <span class="dv">12</span>),</span>
-<span id="cb11-37"><a href="#cb11-37" aria-hidden="true" tabindex="-1"></a>    <span class="at">panel.grid.minor =</span> <span class="fu">element_blank</span>()</span>
-<span id="cb11-38"><a href="#cb11-38" aria-hidden="true" tabindex="-1"></a>  ) <span class="sc">+</span></span>
-<span id="cb11-39"><a href="#cb11-39" aria-hidden="true" tabindex="-1"></a>  <span class="fu">guides</span>(<span class="at">colour =</span> <span class="fu">guide_legend</span>(<span class="at">ncol =</span> <span class="dv">8</span>))</span>
-<span id="cb11-40"><a href="#cb11-40" aria-hidden="true" tabindex="-1"></a></span>
-<span id="cb11-41"><a href="#cb11-41" aria-hidden="true" tabindex="-1"></a><span class="fu">print</span>(alzheimer_plot)</span></code><button title="Copy to Clipboard" class="code-copy-button"><i class="bi"></i></button></pre></div>
+<span id="cb11-18"><a href="#cb11-18" aria-hidden="true" tabindex="-1"></a>  <span class="fu">facet_wrap</span>( <span class="sc">~</span> Country, <span class="at">ncol =</span> <span class="dv">8</span>) <span class="sc">+</span></span>
+<span id="cb11-19"><a href="#cb11-19" aria-hidden="true" tabindex="-1"></a>  <span class="fu">labs</span>(</span>
+<span id="cb11-20"><a href="#cb11-20" aria-hidden="true" tabindex="-1"></a>    <span class="at">title =</span> <span class="st">"Alheimer's and Dementia Death Rates in European Countries Over Time"</span>,</span>
+<span id="cb11-21"><a href="#cb11-21" aria-hidden="true" tabindex="-1"></a>    <span class="at">subtitle =</span> <span class="st">"Death rate per 100,000 population, by country and year."</span>,</span>
+<span id="cb11-22"><a href="#cb11-22" aria-hidden="true" tabindex="-1"></a>    <span class="at">x =</span> <span class="st">"Year"</span>,</span>
+<span id="cb11-23"><a href="#cb11-23" aria-hidden="true" tabindex="-1"></a>    <span class="at">y =</span> <span class="st">"Death Rate (per 100,000)"</span>,</span>
+<span id="cb11-24"><a href="#cb11-24" aria-hidden="true" tabindex="-1"></a>    <span class="at">colour =</span> <span class="st">"Country"</span></span>
+<span id="cb11-25"><a href="#cb11-25" aria-hidden="true" tabindex="-1"></a>  ) <span class="sc">+</span></span>
+<span id="cb11-26"><a href="#cb11-26" aria-hidden="true" tabindex="-1"></a>  <span class="fu">theme_minimal</span>() <span class="sc">+</span></span>
+<span id="cb11-27"><a href="#cb11-27" aria-hidden="true" tabindex="-1"></a>  <span class="fu">theme</span>(</span>
+<span id="cb11-28"><a href="#cb11-28" aria-hidden="true" tabindex="-1"></a>    <span class="at">legend.position =</span> <span class="st">"bottom"</span>,</span>
+<span id="cb11-29"><a href="#cb11-29" aria-hidden="true" tabindex="-1"></a>    <span class="at">legend.direction =</span> <span class="st">"horizontal"</span>,</span>
+<span id="cb11-30"><a href="#cb11-30" aria-hidden="true" tabindex="-1"></a>    <span class="at">legend.text =</span> <span class="fu">element_text</span>(<span class="at">size =</span> <span class="dv">7</span>),</span>
+<span id="cb11-31"><a href="#cb11-31" aria-hidden="true" tabindex="-1"></a>    <span class="at">legend.title =</span> <span class="fu">element_text</span>(<span class="at">size =</span> <span class="dv">8</span>, <span class="at">face =</span> <span class="st">"bold"</span>),</span>
+<span id="cb11-32"><a href="#cb11-32" aria-hidden="true" tabindex="-1"></a>    <span class="at">legend.key.size =</span> <span class="fu">unit</span>(<span class="fl">0.3</span>, <span class="st">"lines"</span>),</span>
+<span id="cb11-33"><a href="#cb11-33" aria-hidden="true" tabindex="-1"></a>    <span class="at">legend.box.margin =</span> <span class="fu">margin</span>(<span class="at">t =</span> <span class="sc">-</span><span class="dv">15</span>, <span class="at">r =</span> <span class="dv">0</span>, <span class="at">b =</span> <span class="dv">0</span>, <span class="at">l =</span> <span class="dv">0</span>),</span>
+<span id="cb11-34"><a href="#cb11-34" aria-hidden="true" tabindex="-1"></a>    <span class="at">legend.box.spacing =</span> <span class="fu">unit</span>(<span class="fl">0.1</span>, <span class="st">"cm"</span>),</span>
+<span id="cb11-35"><a href="#cb11-35" aria-hidden="true" tabindex="-1"></a>    <span class="at">plot.title =</span> <span class="fu">element_text</span>(<span class="at">size =</span> <span class="dv">16</span>, <span class="at">face =</span> <span class="st">"bold"</span>),</span>
+<span id="cb11-36"><a href="#cb11-36" aria-hidden="true" tabindex="-1"></a>    <span class="at">plot.subtitle =</span> <span class="fu">element_text</span>(<span class="at">size =</span> <span class="dv">12</span>),</span>
+<span id="cb11-37"><a href="#cb11-37" aria-hidden="true" tabindex="-1"></a>    <span class="at">axis.title =</span> <span class="fu">element_text</span>(<span class="at">size =</span> <span class="dv">12</span>),</span>
+<span id="cb11-38"><a href="#cb11-38" aria-hidden="true" tabindex="-1"></a>    <span class="at">panel.grid.minor =</span> <span class="fu">element_blank</span>()</span>
+<span id="cb11-39"><a href="#cb11-39" aria-hidden="true" tabindex="-1"></a>  ) <span class="sc">+</span></span>
+<span id="cb11-40"><a href="#cb11-40" aria-hidden="true" tabindex="-1"></a>  <span class="fu">guides</span>(<span class="at">colour =</span> <span class="fu">guide_legend</span>(<span class="at">ncol =</span> <span class="dv">8</span>))</span>
+<span id="cb11-41"><a href="#cb11-41" aria-hidden="true" tabindex="-1"></a></span>
+<span id="cb11-42"><a href="#cb11-42" aria-hidden="true" tabindex="-1"></a><span class="fu">print</span>(alzheimer_plot)</span></code><button title="Copy to Clipboard" class="code-copy-button"><i class="bi"></i></button></pre></div>
 <div class="cell-output-display">
 <div>
 <figure class="figure">
